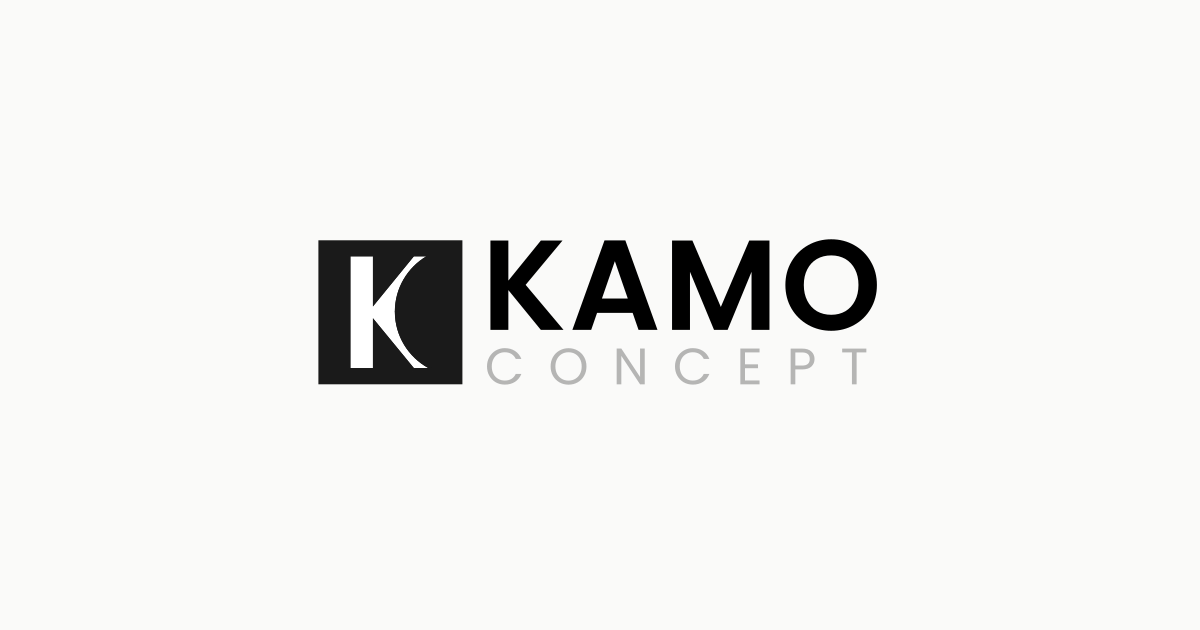
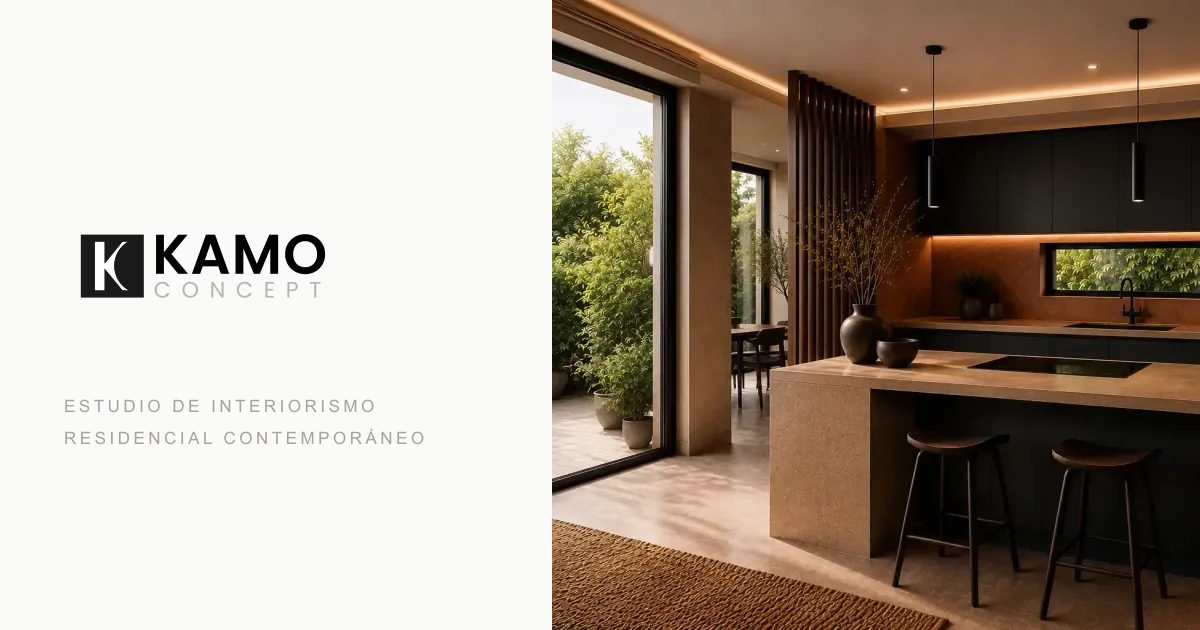
feat(v1.0): mobile header refinement, Manifiesto pacing, and new OG cover
Closes out v1.0 art-direction polish: mobile Header is now fixed with an
explicit white background (previously transparent, so it inherited the
body background and could invert under system dark mode) and a subtler
divider line. Manifiesto's typography and section height are reduced for
better page rhythm, especially on mobile. Open Graph cover replaced with
an editorial split composition built from the real Hero photography,
reusing the Home's own grid language instead of a flat logo lockup.

diff --git a/components/sections/Manifesto.tsx b/components/sections/Manifesto.tsx
@@ -6,11 +6,11 @@ import Section from "../layout/Section";
 
 export default function Manifesto() {
   return (
-    <Section className="border-b border-neutral-200">
+    <Section className="border-b border-neutral-200 !py-lg md:!py-xl">
       <div className="md:flex md:gap-2xl">
         <div aria-hidden="true" className="md:w-40 md:flex-shrink-0" />
         <motion.p
-          className="max-w-3xl text-h2 font-light leading-relaxed tracking-tight text-neutral-800"
+          className="max-w-3xl text-h3 font-light leading-relaxed tracking-tight text-neutral-800"
           variants={fadeInUp}
           initial="hidden"
           whileInView="visible"

diff --git a/components/layout/Header.tsx b/components/layout/Header.tsx
@@ -6,7 +6,7 @@ import { navLinks } from "@/lib/navLinks";
 
 export default function Header() {
   return (
-    <header className="h-header border-b border-neutral-200">
+    <header className="fixed inset-x-0 top-0 z-50 h-header border-b border-neutral-100 bg-white md:static md:z-auto md:border-neutral-200 md:bg-transparent">
       <Container
         width="wide"
         className="flex h-full items-center justify-between"

diff --git a/app/layout.tsx b/app/layout.tsx
@@ -73,7 +73,7 @@ export default function RootLayout({
     >
       <body className="flex min-h-full flex-col">
         <Header />
-        <main className="flex-1">{children}</main>
+        <main className="flex-1 pt-[var(--header-height)] md:pt-0">{children}</main>
         <Footer />
       </body>
     </html>
